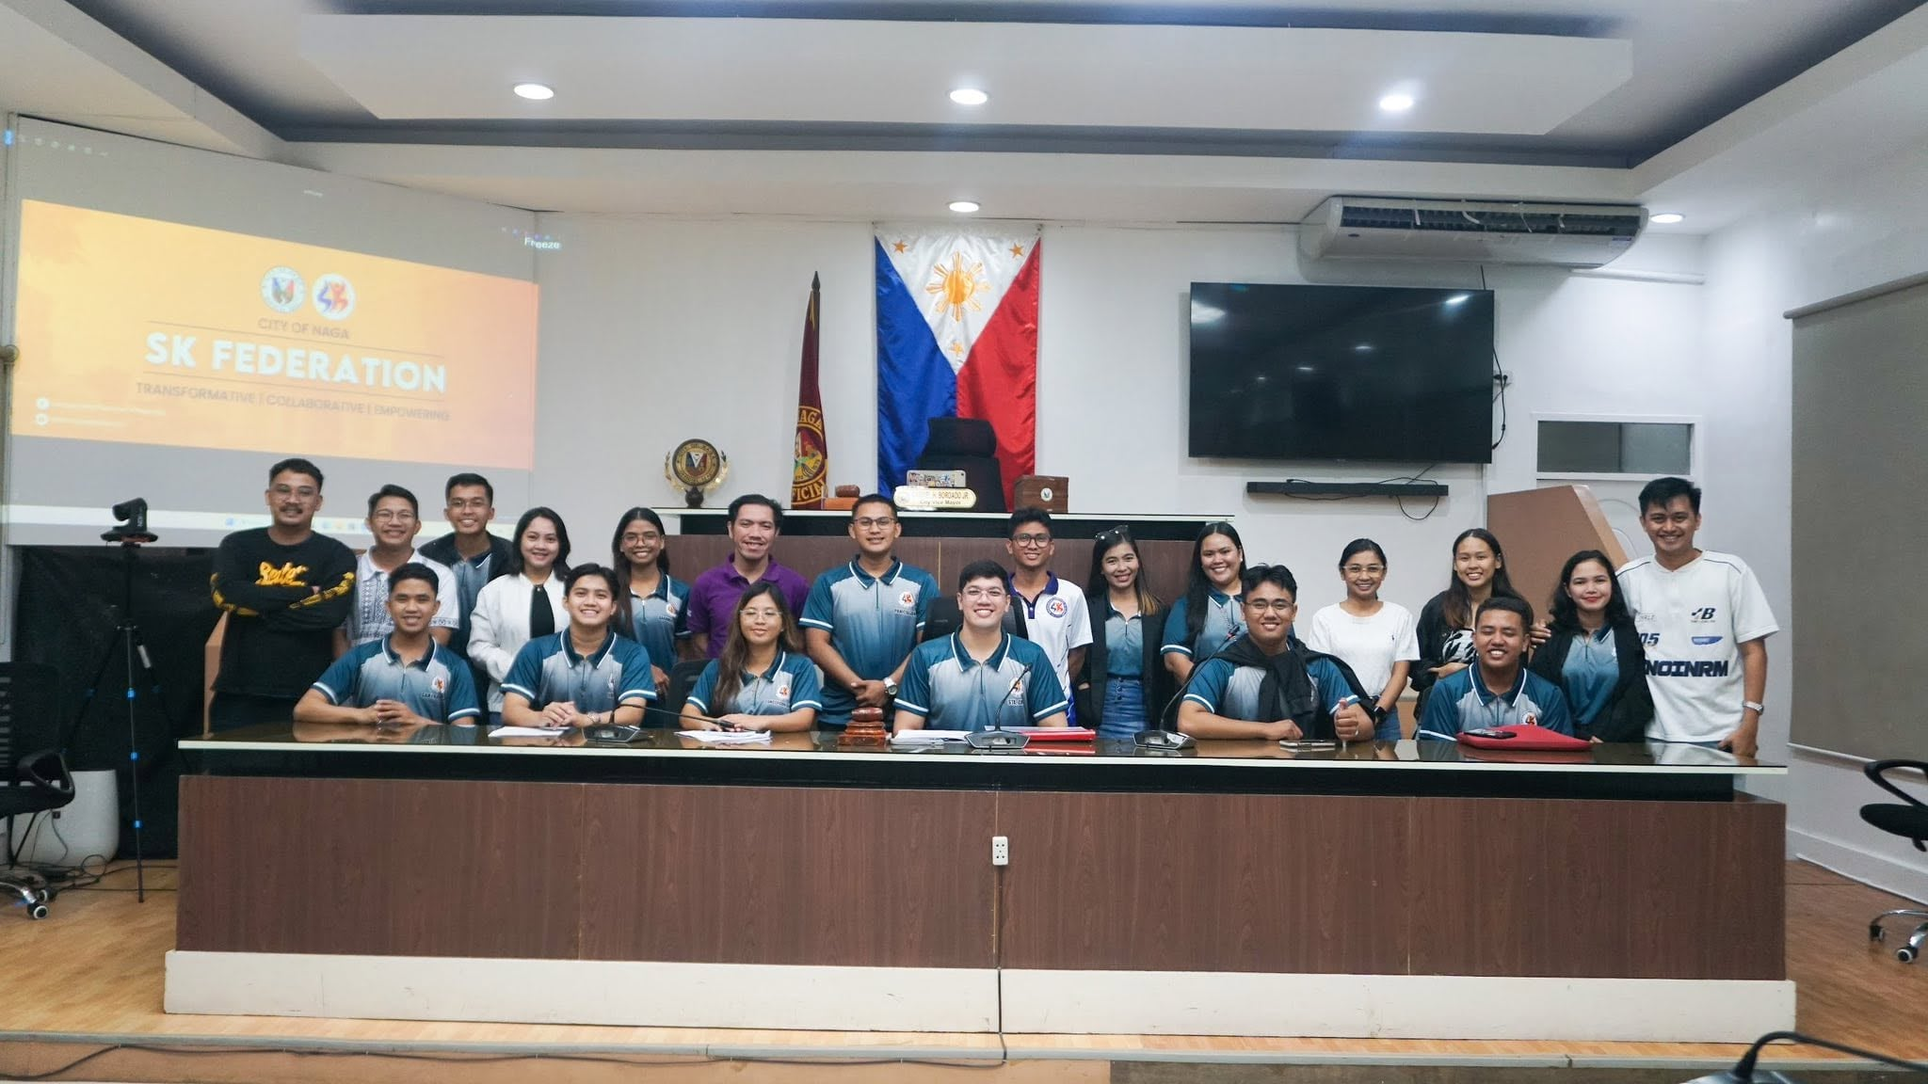
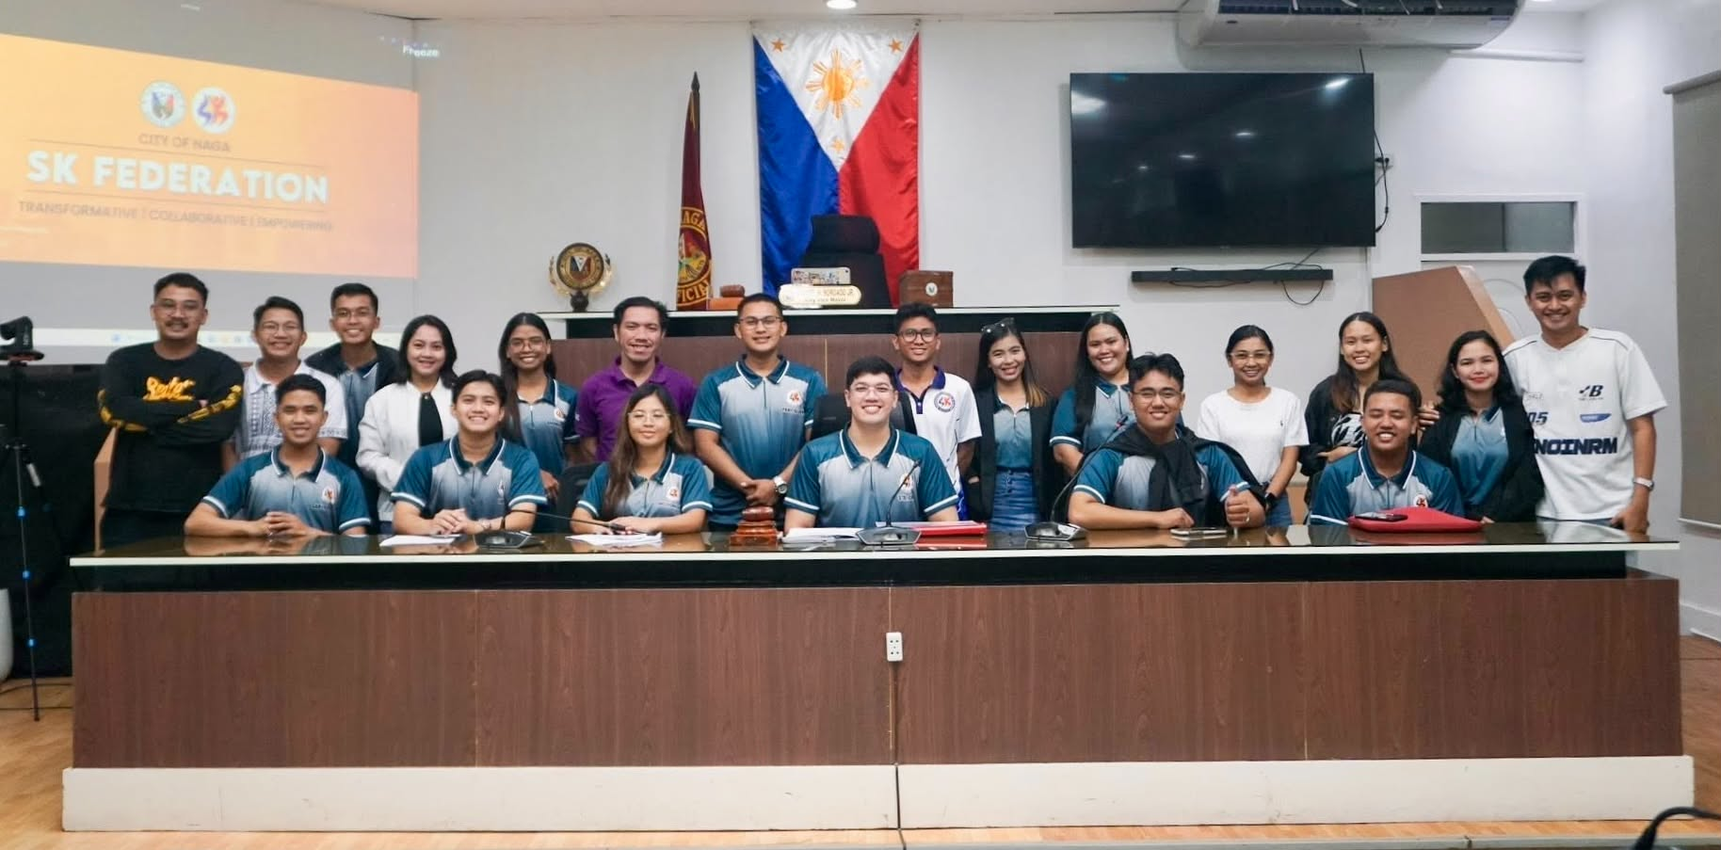
updated landing and signup page

diff --git a/frontend/src/components/LandingPage.tsx b/frontend/src/components/LandingPage.tsx
@@ -3,7 +3,7 @@
 import { useEffect, useState } from 'react';
 import {
   Users, ClipboardList, QrCode, Wallet, MessageSquare, BarChart3,
-  ChevronDown
+  ChevronDown, ShieldCheck
 } from 'lucide-react';
 import { DecorativeBackground } from './PublicPages';
 
@@ -46,6 +46,7 @@ const LOGO_SRC = '/images/Kabisig_logo.png';
 
 export default function LandingPage({ onSignIn, onCreateAccount, onTransparencyPortal }: LandingPageProps) {
   const [scrolled, setScrolled] = useState(false);
+  const [expandedLaw, setExpandedLaw] = useState<string | null>(null);
 
   useEffect(() => {
     const handleScroll = () => setScrolled(window.scrollY > 60);
@@ -57,11 +58,7 @@ export default function LandingPage({ onSignIn, onCreateAccount, onTransparencyP
     <div className="min-h-screen bg-white font-sans text-slate-800 overflow-x-hidden">
       {/* TOP NAV */}
       <nav className={`fixed top-0 left-0 right-0 z-50 transition-all ${scrolled ? 'bg-white/95 backdrop-blur-md shadow-sm border-b border-slate-100' : 'bg-transparent'}`}>
-        <div className="max-w-7xl mx-auto px-6 py-3 flex items-center justify-between">
-          <div className="flex items-center gap-3">
-            <img src={LOGO_SRC} alt="KABISIG" className="w-11 h-11 object-contain" />
-            <span className="font-extrabold text-lg tracking-tight text-[#091d64]">KABISIG</span>
-          </div>
+        <div className="w-full px-6 lg:px-10 py-3 flex items-center justify-end">
           <div className="flex items-center gap-1 sm:gap-2">
             <button onClick={onTransparencyPortal} className="hidden sm:inline-block px-4 py-2 text-xs font-bold rounded-lg text-slate-600 hover:bg-slate-100 transition-colors">Transparency Portal</button>
             <button onClick={onSignIn} className="px-4 py-2 text-xs font-bold rounded-lg text-[#091d64] hover:bg-slate-100 transition-colors">Sign In</button>
@@ -73,7 +70,7 @@ export default function LandingPage({ onSignIn, onCreateAccount, onTransparencyP
       {/* HERO */}
       <section className="relative min-h-screen flex items-center justify-center overflow-hidden bg-gradient-to-b from-white via-blue-50/40 to-white">
         <DecorativeBackground />
-        <div className="relative z-10 max-w-3xl mx-auto px-6 text-center pt-20 pb-16">
+        <div className="relative z-10 w-full px-6 text-center pt-20 pb-16">
           <img src={LOGO_SRC} alt="KABISIG" className="w-32 h-32 sm:w-40 sm:h-40 object-contain mx-auto mb-6" />
           <p className="text-[#091d64] font-extrabold text-[11px] tracking-[0.4em] uppercase mb-3">Naga City - Sangguniang Kabataan</p>
           <h1 className="text-[#091d64] font-black text-5xl sm:text-6xl lg:text-7xl tracking-tight leading-none mb-5">KABISIG</h1>
@@ -100,7 +97,7 @@ export default function LandingPage({ onSignIn, onCreateAccount, onTransparencyP
 
       {/* ABOUT */}
       <section className="relative py-24 bg-white">
-        <div className="max-w-7xl mx-auto px-6 grid lg:grid-cols-2 gap-14 items-center">
+        <div className="w-full px-6 lg:px-10 grid lg:grid-cols-2 gap-14 items-center">
           <div>
             <p className="text-[11px] font-extrabold tracking-[0.3em] uppercase text-[#091d64] mb-3">About the Project</p>
             <h2 className="text-3xl sm:text-4xl font-black text-[#091d64] mb-5 leading-tight">Modernizing SK governance for the youth of Naga City</h2>
@@ -110,11 +107,6 @@ export default function LandingPage({ onSignIn, onCreateAccount, onTransparencyP
             <p className="text-slate-600 text-sm leading-relaxed mb-6">
               <strong className="text-[#091d64]">KABISIG</strong> centralizes these operations into a single multi-tenant platform, aligning with the SK Reform Act (RA 10742), the DILG youth database mandate (MC 2022-033), and the SK Full Public Disclosure Policy (MC 2023-068), while preserving each barangay's data isolation and privacy.
             </p>
-            <div className="flex flex-wrap gap-3 text-[11px] font-bold">
-              <span className="px-3 py-1.5 bg-blue-50 text-[#091d64] rounded-full">Multi-Tenant Architecture</span>
-              <span className="px-3 py-1.5 bg-blue-50 text-[#091d64] rounded-full">Rule-Based Analytics</span>
-              <span className="px-3 py-1.5 bg-blue-50 text-[#091d64] rounded-full">RA 10173 Compliant</span>
-            </div>
           </div>
           <div className="relative">
             <div className="absolute -inset-4 bg-gradient-to-br from-[#091d64]/5 to-amber-500/5 rounded-3xl blur-xl"></div>
@@ -130,7 +122,7 @@ export default function LandingPage({ onSignIn, onCreateAccount, onTransparencyP
 
       {/* FEATURES */}
       <section className="py-24 bg-slate-50">
-        <div className="max-w-7xl mx-auto px-6">
+        <div className="w-full px-6 lg:px-10">
           <div className="text-center mb-14">
             <p className="text-[11px] font-extrabold tracking-[0.3em] uppercase text-[#091d64] mb-3">Core Capabilities</p>
             <h2 className="text-3xl sm:text-4xl font-black text-[#091d64] mb-4">Built for how SK actually works</h2>
@@ -140,8 +132,8 @@ export default function LandingPage({ onSignIn, onCreateAccount, onTransparencyP
             {FEATURES.map((f, i) => {
               const Icon = f.icon;
               return (
-                <div key={i} className="bg-white rounded-2xl border border-slate-100 p-6 shadow-xs hover:shadow-lg hover:-translate-y-1 transition-all">
-                  <div className="w-12 h-12 rounded-xl bg-[#091d64] text-amber-400 flex items-center justify-center mb-4">
+                <div key={i} className="group bg-white rounded-2xl border border-slate-100 p-6 shadow-xs transition-all duration-500 ease-out motion-reduce:transition-none hover:z-20 hover:shadow-xl hover:-translate-y-2 hover:scale-[1.15]">
+                  <div className="w-12 h-12 rounded-xl bg-[#091d64] text-amber-400 flex items-center justify-center mb-4 transition-transform duration-300 group-hover:scale-110 motion-reduce:transition-none">
                     <Icon className="w-6 h-6" />
                   </div>
                   <h3 className="font-extrabold text-slate-900 text-base mb-2">{f.title}</h3>
@@ -153,88 +145,56 @@ export default function LandingPage({ onSignIn, onCreateAccount, onTransparencyP
         </div>
       </section>
 
-      {/* CONSULTATION GALLERY */}
-      <section className="relative py-24 bg-white overflow-hidden">
-        <div className="max-w-6xl mx-auto px-6 relative z-10">
-          <div className="text-center mb-14">
-            <p className="text-[11px] font-extrabold tracking-[0.3em] uppercase text-[#091d64] mb-3">Grounded in Community Consultation</p>
-            <h2 className="text-3xl sm:text-4xl font-black text-[#091d64] mb-4">Voices from the barangays</h2>
-            <p className="text-slate-500 text-sm max-w-2xl mx-auto">
-              Requirements were gathered through direct interviews with SK Chairpersons across Naga City, ensuring KABISIG reflects real SK workflows, not assumptions.
-            </p>
-          </div>
-
-          <div className="grid grid-cols-3 sm:grid-cols-4 md:grid-cols-5 lg:grid-cols-6 gap-3 sm:gap-4">
-            {CHAIRPERSONS.map((c) => (
-              <div key={c.file} className="group">
-                <div className="relative w-full aspect-square rounded-lg overflow-hidden bg-slate-100 border border-slate-200">
-                  <img
-                    src={`/images/${c.file}`}
-                    alt={`SK Chairperson of ${c.barangay}`}
-                    className="w-full h-full object-cover group-hover:scale-[1.03] transition-transform duration-500"
-                    onError={(e) => {
-                      const wrapper = (e.currentTarget as HTMLImageElement).parentElement;
-                      if (wrapper) wrapper.style.display = 'none';
-                    }}
-                  />
-                </div>
-                <div className="mt-2 px-0.5">
-                  <p className="text-[9px] font-extrabold text-[#091d64] uppercase tracking-wider truncate">{c.barangay}</p>
-                  <p className="text-[10px] font-semibold text-slate-600 truncate">Hon. {c.name}</p>
-                </div>
-              </div>
-            ))}
-          </div>
-
-          <p className="mt-10 text-center text-[11px] text-slate-400 font-medium">
-            Additional consultation photos: Hon. Ma. Angelica Pujado (Lerma) - Hon. Rosary D. Diaz (Pacol)
-          </p>
-        </div>
-      </section>
-
-      {/* FIELD WORK */}
-      <section className="relative py-24 bg-slate-50">
-        <div className="max-w-5xl mx-auto px-6">
+      {/* LEGAL FOUNDATIONS */}
+      <section aria-labelledby="legal-foundations-title" className="min-h-screen flex items-center py-16 bg-slate-50 border-y border-slate-200">
+        <div className="w-full px-6 lg:px-10">
           <div className="text-center mb-12">
-            <p className="text-[11px] font-extrabold tracking-[0.3em] uppercase text-[#091d64] mb-3">Field Work</p>
-            <h2 className="text-3xl sm:text-4xl font-black text-[#091d64] mb-4">Consultation with the Sangguniang Panlungsod</h2>
-            <p className="text-slate-500 text-sm max-w-2xl mx-auto">
-              Coordination with Naga City's legislative office to validate compliance requirements and alignment with local youth development plans.
-            </p>
+            <p className="text-[11px] font-extrabold tracking-[0.3em] uppercase text-[#091d64] mb-3">Statutory &amp; Legal Foundations</p>
+            <h2 id="legal-foundations-title" className="text-3xl sm:text-4xl font-black text-[#091d64] mb-4">Built on the foundations of public service</h2>
+            <p className="text-slate-500 text-sm max-w-2xl mx-auto">Explore the laws and policies guiding youth governance, transparency, and responsible data use.</p>
           </div>
-          <div className="grid sm:grid-cols-2 lg:grid-cols-3 gap-5 max-w-5xl mx-auto">
+          <div className="grid sm:grid-cols-2 xl:grid-cols-4 gap-5">
             {[
-              { src: '/images/CityHall_1.jpg', caption: 'Sangguniang Panlungsod - Naga City' },
-              { src: '/images/CityHall_2.jpg', caption: 'Coordination Meeting - City Hall' },
-              { src: '/images/Chairperson_Developer.jpg', caption: 'SK Chairpersons with the Developers' },
-              { src: '/images/Chairperson_Developer.jpg', caption: 'SK Chairpersons with the Developers' },
-            ].map((img, i) => (
-              <div key={i} className="rounded-xl overflow-hidden shadow-md border border-slate-100 bg-white">
-                <img
-                  src={img.src}
-                  alt={img.caption}
-                  className="w-full h-48 object-cover"
-                  onError={(e) => { (e.currentTarget as HTMLImageElement).style.display = 'none'; }}
-                />
-                <div className="px-4 py-2.5 border-t border-slate-100">
-                  <p className="text-[11px] text-slate-600 font-semibold">{img.caption}</p>
+              { id: 'ra-10742', law: 'RA 10742', title: 'Sangguniang Kabataan Reform Act', detail: 'Supports the role of Sangguniang Kabataan in local youth governance.' },
+              { id: 'dilg-2022-033', law: 'DILG MC 2022-033', title: 'Youth Profiling & Database Mandate', detail: 'Guides youth profiling and the maintenance of a youth database.' },
+              { id: 'dilg-2023-068', law: 'DILG MC 2023-068', title: 'Full Public Disclosure Policy', detail: 'Guides public disclosure of SK plans, budgets, and reports.' },
+              { id: 'ra-10173', law: 'RA 10173', title: 'National Data Privacy Act Compliance', detail: 'Sets requirements for responsible handling of personal information.' },
+            ].map((item) => (
+              <button
+                key={item.id}
+                type="button"
+                aria-expanded={expandedLaw === item.id}
+                aria-controls={`legal-detail-${item.id}`}
+                onClick={() => setExpandedLaw(expandedLaw === item.id ? null : item.id)}
+                className="group min-h-[240px] w-full rounded-2xl border border-slate-200 bg-white p-6 sm:p-7 text-left shadow-sm transition-all duration-300 hover:-translate-y-1 hover:shadow-lg focus-visible:outline-none focus-visible:ring-2 focus-visible:ring-[#091d64] focus-visible:ring-offset-2 motion-reduce:transition-none"
+              >
+                <div className="flex items-start justify-between gap-4">
+                  <span className="flex h-12 w-12 shrink-0 items-center justify-center rounded-xl bg-[#091d64] text-amber-400 transition-transform duration-300 group-hover:scale-105 motion-reduce:transition-none">
+                    <ShieldCheck className="h-6 w-6" aria-hidden="true" />
+                  </span>
+                  <ChevronDown className={`mt-3 h-5 w-5 shrink-0 text-slate-400 transition-transform duration-300 ${expandedLaw === item.id ? 'rotate-180' : ''}`} aria-hidden="true" />
                 </div>
-              </div>
+                <p className="mt-6 text-sm font-extrabold text-[#091d64]">{item.law}</p>
+                <p className="mt-2 text-base font-bold leading-snug text-slate-900">{item.title}</p>
+                <div id={`legal-detail-${item.id}`} hidden={expandedLaw !== item.id} className="mt-4 border-t border-slate-100 pt-4 text-sm leading-relaxed text-slate-600">
+                  {item.detail}
+                </div>
+              </button>
             ))}
           </div>
         </div>
       </section>
 
       {/* TEAM */}
-      <section className="py-24 bg-white">
-        <div className="max-w-5xl mx-auto px-6">
-          <div className="text-center mb-14">
-            <p className="text-[11px] font-extrabold tracking-[0.3em] uppercase text-[#091d64] mb-3">The Team</p>
-            <h2 className="text-3xl sm:text-4xl font-black text-[#091d64] mb-4">Built by two BS IT students at ADNU</h2>
+      <section className="py-10 bg-white">
+        <div className="w-full px-6 lg:px-10">
+          <div className="text-center mb-7">
+            <p className="text-[10px] font-extrabold tracking-[0.3em] uppercase text-[#091d64] mb-2">The Team</p>
+            <h2 className="text-2xl sm:text-3xl font-black text-[#091d64]">Built by two BS IT students at ADNU</h2>
           </div>
-          <div className="grid sm:grid-cols-2 gap-10 max-w-3xl mx-auto">
+          <div className="grid sm:grid-cols-2 gap-6 max-w-3xl mx-auto">
             <div className="text-center">
-              <div className="w-48 h-48 mx-auto rounded-full overflow-hidden shadow-lg border-4 border-white ring-1 ring-slate-100 mb-5">
+              <div className="w-32 h-32 mx-auto rounded-full overflow-hidden shadow-md border-4 border-white ring-1 ring-slate-100 mb-3">
                 <img
                   src="/images/Developer_pic1.jpg"
                   alt="David James B. Ignacio"
@@ -242,11 +202,11 @@ export default function LandingPage({ onSignIn, onCreateAccount, onTransparencyP
                   onError={(e) => { (e.currentTarget as HTMLImageElement).style.display = 'none'; }}
                 />
               </div>
-              <p className="font-extrabold text-slate-900 text-lg">David James B. Ignacio</p>
+              <p className="font-extrabold text-slate-900 text-base">David James B. Ignacio</p>
               <p className="text-xs text-slate-500 font-semibold mt-1">BS Information Technology</p>
             </div>
             <div className="text-center">
-              <div className="w-48 h-48 mx-auto rounded-full overflow-hidden shadow-lg border-4 border-white ring-1 ring-slate-100 mb-5">
+              <div className="w-32 h-32 mx-auto rounded-full overflow-hidden shadow-md border-4 border-white ring-1 ring-slate-100 mb-3">
                 <img
                   src="/images/Developer_pic3.jpg"
                   alt="Ashley Kyla D. Vinzon"
@@ -254,11 +214,11 @@ export default function LandingPage({ onSignIn, onCreateAccount, onTransparencyP
                   onError={(e) => { (e.currentTarget as HTMLImageElement).style.display = 'none'; }}
                 />
               </div>
-              <p className="font-extrabold text-slate-900 text-lg">Ashley Kyla D. Vinzon</p>
+              <p className="font-extrabold text-slate-900 text-base">Ashley Kyla D. Vinzon</p>
               <p className="text-xs text-slate-500 font-semibold mt-1">BS Information Technology</p>
             </div>
           </div>
-          <p className="text-center text-xs text-slate-500 font-semibold mt-12">
+          <p className="text-center text-[11px] text-slate-500 font-semibold mt-6">
             Ateneo de Naga University - College of Computer Studies - Department of Computer Science
           </p>
         </div>
@@ -266,7 +226,7 @@ export default function LandingPage({ onSignIn, onCreateAccount, onTransparencyP
 
       {/* FOOTER */}
       <footer className="bg-[#061344] text-blue-200/70 py-10">
-        <div className="max-w-7xl mx-auto px-6 flex flex-col sm:flex-row items-center justify-between gap-6">
+        <div className="w-full px-6 lg:px-10 flex flex-col sm:flex-row items-center justify-between gap-6">
           <div className="flex items-center gap-3">
             <div className="w-11 h-11 rounded-xl bg-white flex items-center justify-center p-1">
               <img src={LOGO_SRC} alt="KABISIG" className="w-full h-full object-contain" />

diff --git a/frontend/src/components/PublicPages.tsx b/frontend/src/components/PublicPages.tsx
@@ -43,7 +43,7 @@ export function validatePassword(password: string) {
 export function DecorativeBackground() {
   return (
     <div className="absolute inset-0 overflow-hidden pointer-events-none z-0">
-      <svg className="absolute top-0 left-0 w-[55%] h-[55%] opacity-90" viewBox="0 0 500 500" fill="none" xmlns="http://www.w3.org/2000/svg">
+      <svg className="absolute top-0 left-0 w-[min(64vw,64vh)] aspect-square opacity-90" viewBox="0 0 500 500" fill="none" xmlns="http://www.w3.org/2000/svg">
         <path d="M-80 -80 C 180 -80, 260 160, 160 320 C 80 440, -80 380, -80 380 Z" fill="rgba(30, 58, 138, 0.08)" />
         <path d="M-120 -120 C 120 -120, 220 70, 120 250 C 50 350, -120 300, -120 300 Z" fill="rgba(219, 39, 119, 0.06)" />
         <path d="M-50 -50 C 80 -50, 180 200, 110 210 C 20 280, -50 220, -50 220 Z" fill="rgba(251, 191, 36, 0.05)" />
@@ -57,17 +57,17 @@ export function DecorativeBackground() {
         <line x1="60" y1="300" x2="120" y2="120" stroke="rgba(30, 58, 138, 0.15)" strokeWidth="1.5" />
       </svg>
 
-      <svg className="absolute top-0 right-0 w-[45%] h-[45%] opacity-90" viewBox="0 0 400 400" fill="none" xmlns="http://www.w3.org/2000/svg">
+      <svg className="absolute top-0 right-0 w-[min(54vw,54vh)] aspect-square opacity-90" viewBox="0 0 400 400" fill="none" xmlns="http://www.w3.org/2000/svg">
         <path d="M450 -50 C 280 -50, 220 120, 300 240 C 360 320, 450 280, 450 280 Z" fill="rgba(219, 39, 119, 0.06)" />
         <path d="M480 -80 C 320 -80, 250 50, 320 180 C 370 260, 480 220, 480 220 Z" fill="rgba(251, 191, 36, 0.05)" />
       </svg>
 
-      <svg className="absolute bottom-0 left-0 w-[45%] h-[45%] opacity-90" viewBox="0 0 400 400" fill="none" xmlns="http://www.w3.org/2000/svg">
+      <svg className="absolute bottom-0 left-0 w-[min(54vw,54vh)] aspect-square opacity-90" viewBox="0 0 400 400" fill="none" xmlns="http://www.w3.org/2000/svg">
         <path d="M-50 450 C 120 450, 180 280, 100 160 C 40 80, -50 120, -50 120 Z" fill="rgba(219, 39, 119, 0.06)" />
         <path d="M-80 480 C 80 480, 150 350, 80 220 C 30 140, -80 180, -80 180 Z" fill="rgba(251, 191, 36, 0.05)" />
       </svg>
 
-      <svg className="absolute bottom-0 right-0 w-[55%] h-[55%] opacity-90" viewBox="0 0 500 500" fill="none" xmlns="http://www.w3.org/2000/svg">
+      <svg className="absolute bottom-0 right-0 w-[min(64vw,64vh)] aspect-square opacity-90" viewBox="0 0 500 500" fill="none" xmlns="http://www.w3.org/2000/svg">
         <path d="M580 580 C 320 580, 240 340, 340 180 C 420 60, 580 120, 580 120 Z" fill="rgba(30, 58, 138, 0.08)" />
         <path d="M620 620 C 380 620, 280 430, 380 250 C 450 150, 620 200, 620 200 Z" fill="rgba(219, 39, 119, 0.06)" />
         <path d="M550 550 C 420 550, 320 300, 390 290 C 480 220, 550 280, 550 280 Z" fill="rgba(251, 191, 36, 0.05)" />
@@ -434,34 +434,8 @@ export default function PublicPages({
     <div className="min-h-screen flex flex-col bg-slate-50 relative overflow-x-hidden">
       <main className="flex-grow">
         {(activeTab === 'home' || activeTab === 'login') && (
-          <section className="relative min-h-screen lg:grid lg:grid-cols-[2fr_3fr]">
-
-            {/* LEFT - Navy branding panel (desktop only) */}
-            <div className="hidden lg:flex relative flex-col justify-between bg-gradient-to-br from-[#091d64] via-[#0d2a80] to-[#091d64] p-12 overflow-hidden">
-              <DecorativeBackground />
-              <div className="relative z-10">
-                <div className="w-14 h-14 rounded-2xl bg-white flex items-center justify-center p-2 shadow-lg">
-                  <img src={logoWBg.src} alt="KABISIG" className="w-full h-full object-contain" />
-                </div>
-              </div>
-              <div className="relative z-10 my-10">
-                <p className="text-amber-400 font-extrabold text-[10px] tracking-[0.3em] uppercase mb-3">Naga City - Sangguniang Kabataan</p>
-                <h2 className="text-white font-black text-3xl mb-4 leading-tight">Youth governance,<br />centralized.</h2>
-                <p className="text-blue-100/90 text-sm mb-8 leading-relaxed max-w-sm">Multi-tenant platform serving all 27 SK councils of Naga City - profiling, programs, budgets, and community engagement.</p>
-                <ul className="space-y-3 text-blue-100/90 text-xs font-semibold">
-                  <li className="flex items-start gap-2.5"><ShieldCheck className="w-4 h-4 text-amber-400 mt-0.5 flex-shrink-0" /><span>Youth Profiling &amp; Digital Youth ID</span></li>
-                  <li className="flex items-start gap-2.5"><ShieldCheck className="w-4 h-4 text-amber-400 mt-0.5 flex-shrink-0" /><span>Program, Event &amp; Attendance Management</span></li>
-                  <li className="flex items-start gap-2.5"><ShieldCheck className="w-4 h-4 text-amber-400 mt-0.5 flex-shrink-0" /><span>Budget Transparency &amp; COA-Ready Reports</span></li>
-                  <li className="flex items-start gap-2.5"><ShieldCheck className="w-4 h-4 text-amber-400 mt-0.5 flex-shrink-0" /><span>Federation Analytics across Barangays</span></li>
-                </ul>
-              </div>
-              <div className="relative z-10">
-                <p className="text-blue-200/60 text-[10px] font-medium leading-relaxed">Ateneo de Naga University - BS Information Technology - 2026</p>
-              </div>
-            </div>
-
-            {/* RIGHT - Form column */}
-            <div className="relative flex items-center justify-center bg-[#f8fafc] px-4 py-12">
+          <section className="relative min-h-screen">
+            <div className="relative flex min-h-screen w-full items-center justify-center bg-[#f8fafc] px-4 py-12 sm:px-8">
               <DecorativeBackground />
 
             <div className="relative z-10 w-full max-w-[440px] flex flex-col items-center animate-in fade-in zoom-in-95 duration-300">
